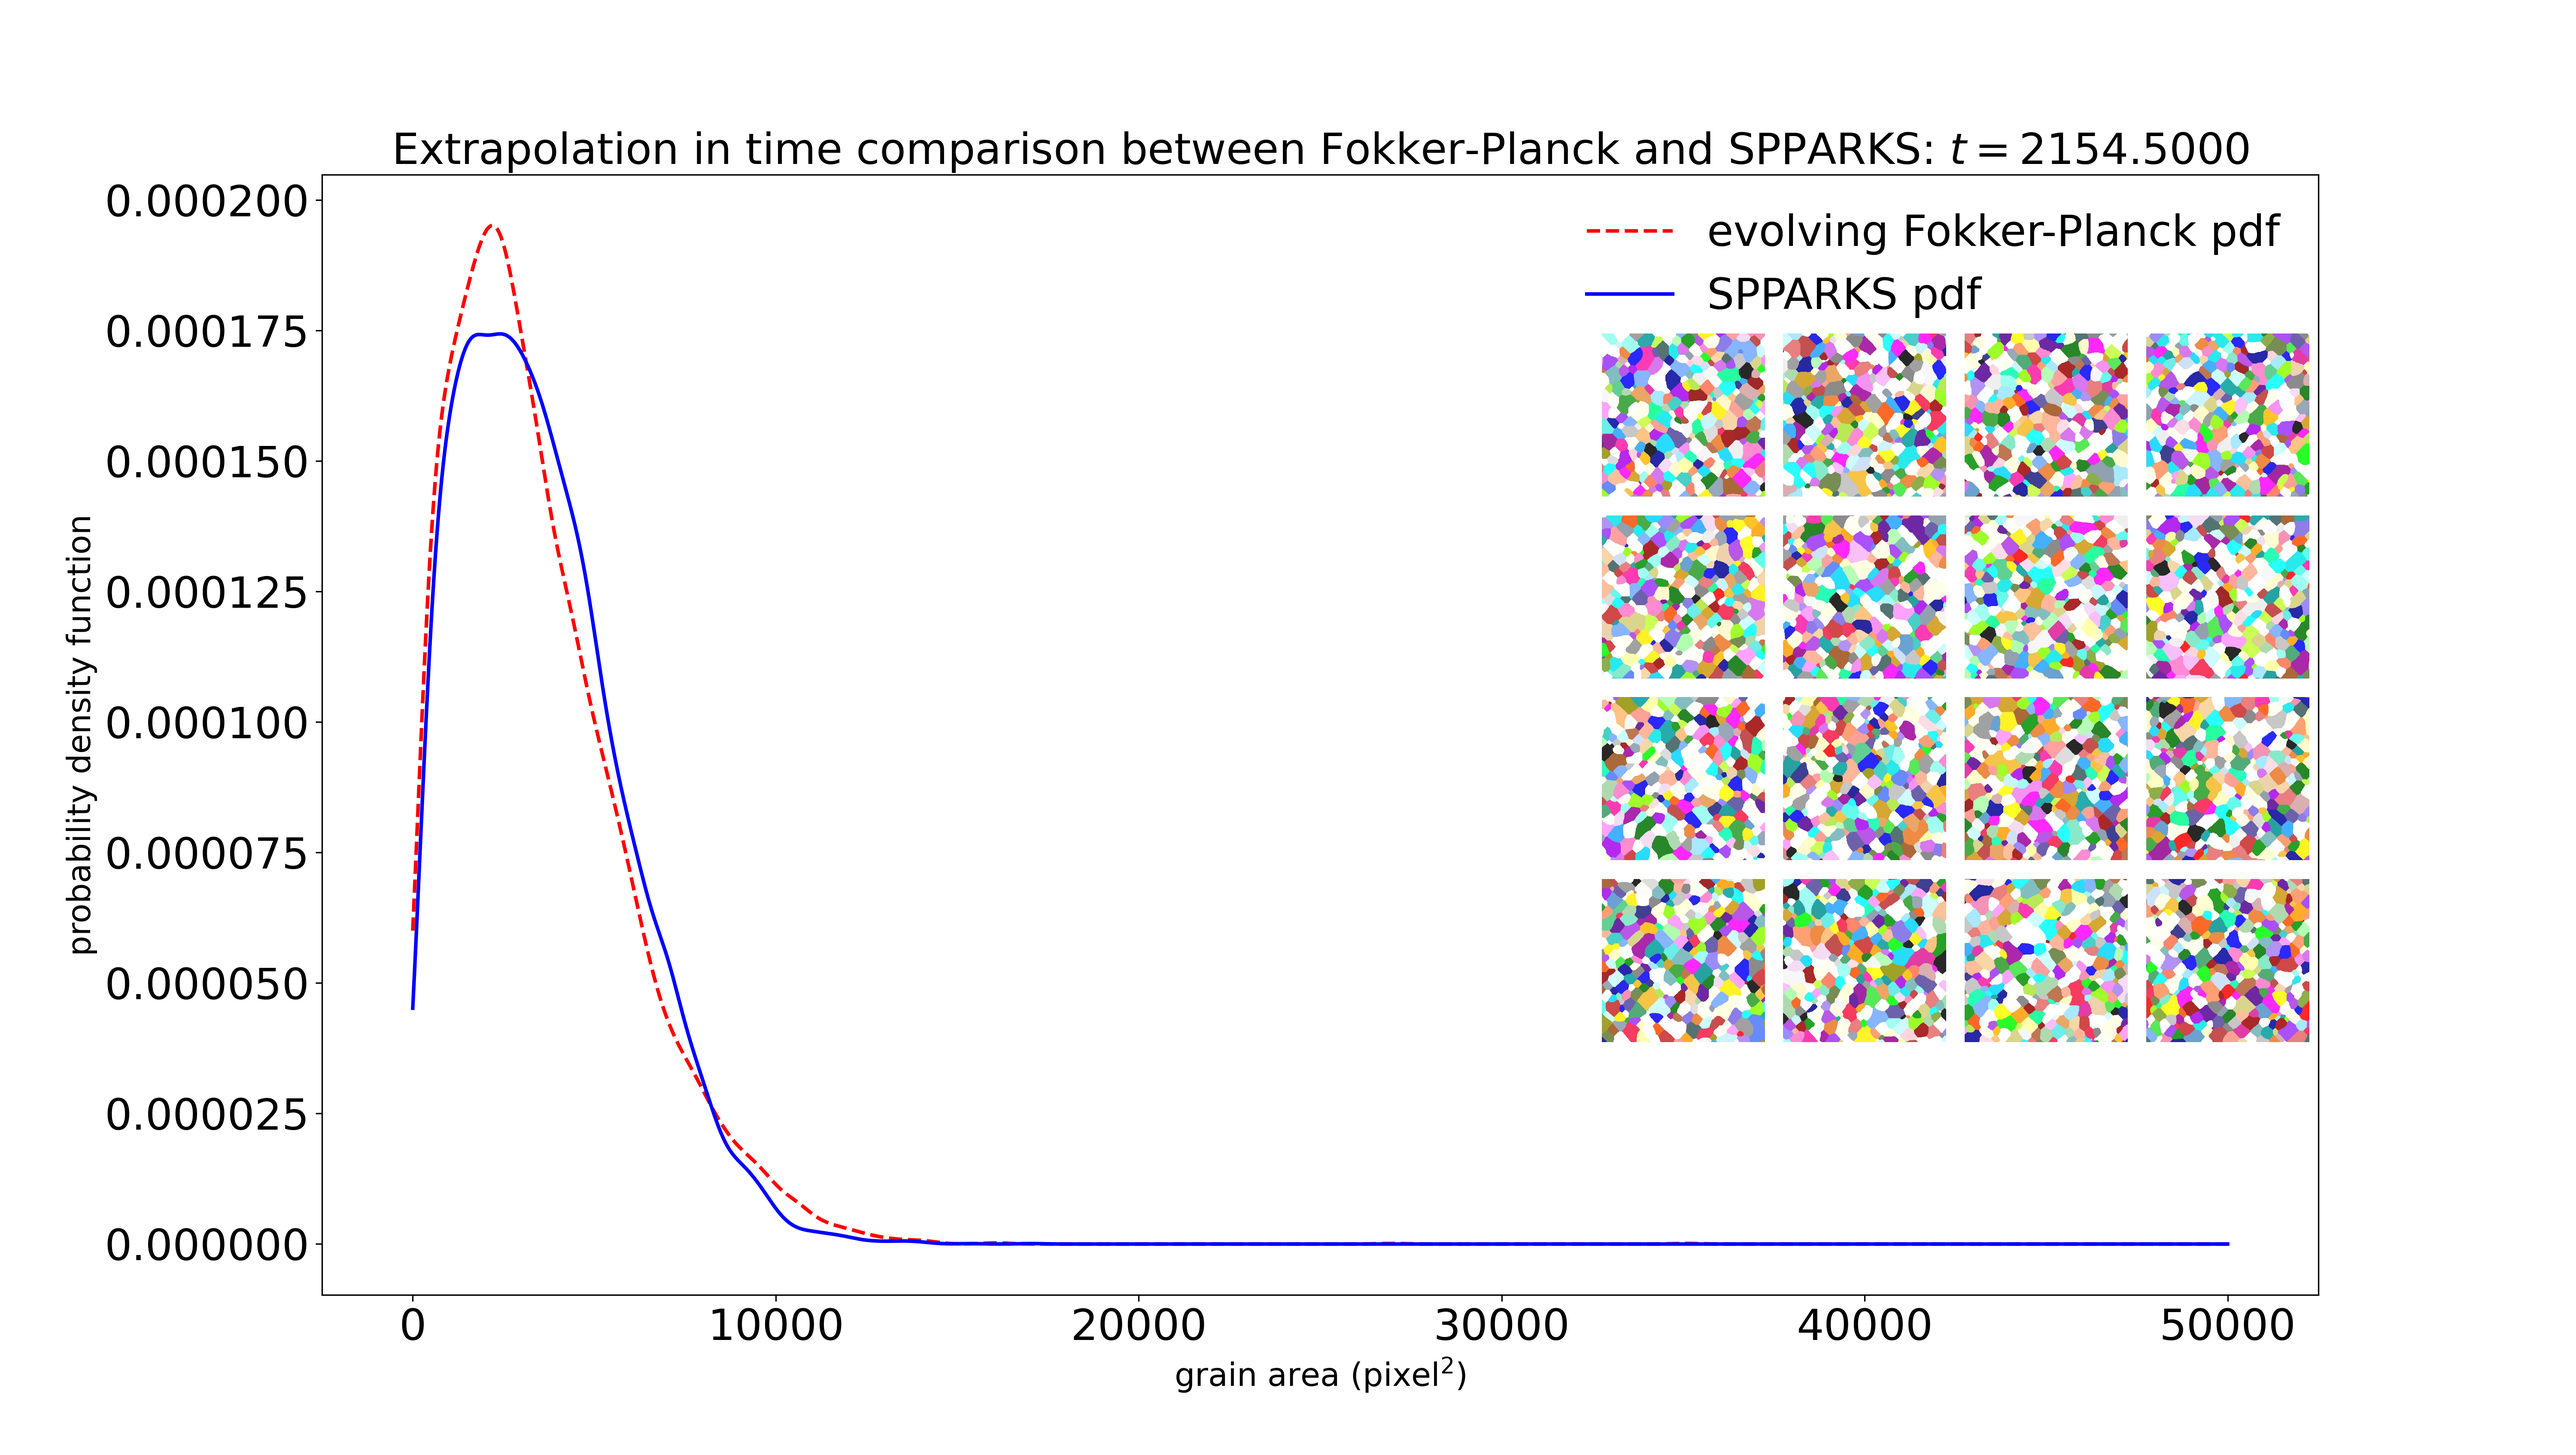
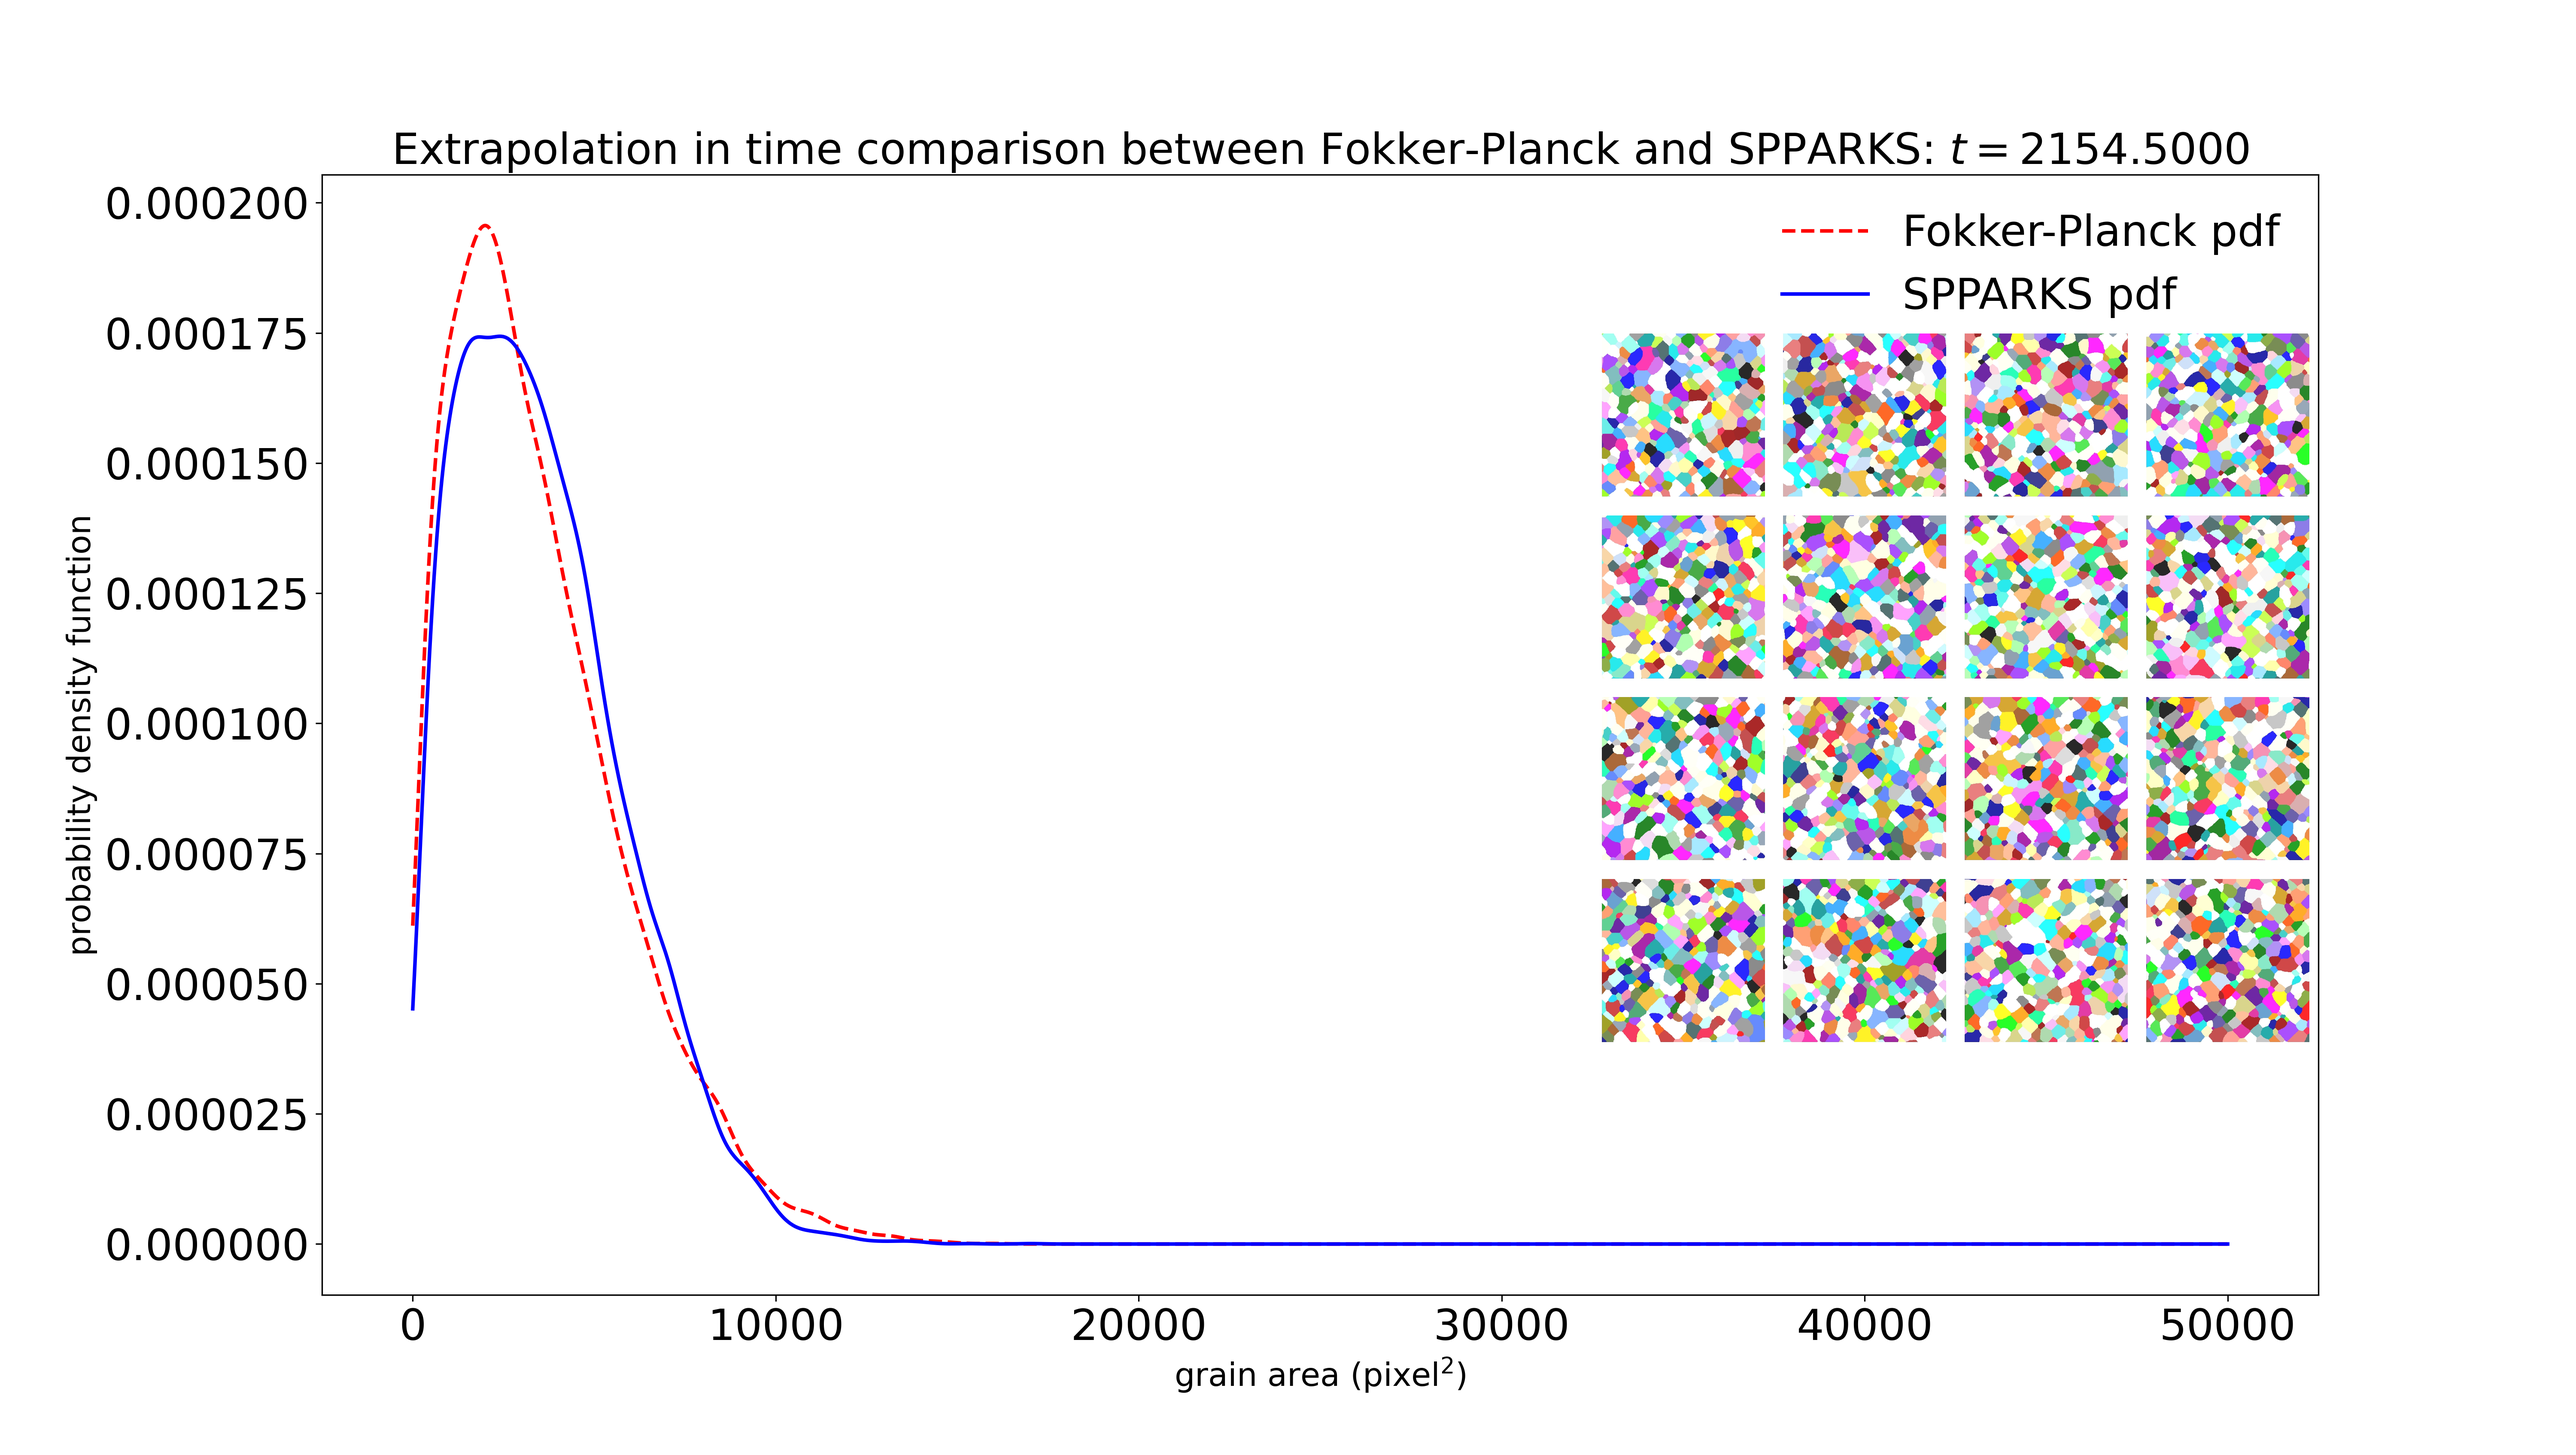
update ggComparison*png

diff --git a/fp1d/model/compareSpkDensity3.py b/fp1d/model/compareSpkDensity3.py
@@ -130,7 +130,7 @@ for i in range(len(iterationList)):
 	# initPlt, 			= plt.plot(x, pInit, 'ro:', linewidth=2, label='first training pdf (kMC: 46.5 mcs)')
 	# calibratedPlt, 	= plt.plot(x, pCalibrated, 'mo-.', linewidth=2, label='last training pdf (kMC: 599.5 mcs)')
 	# finalPlt, 		= plt.plot(x, pFinal, 'go--', linewidth=2, label='last testing pdf (kMC: 16,681.1 mcs)')
-	currentPlt, 	= plt.plot(x, pCurrent, c='red', linestyle='--', linewidth=2, label='evolving Fokker-Planck pdf')
+	currentPlt, 	= plt.plot(x, pCurrent, c='red', linestyle='--', linewidth=2, label='Fokker-Planck pdf')
 	spkCurrentPlt,  = plt.plot(x, pSpkCurrent, c='blue', linestyle='-', linewidth=2, label='SPPARKS pdf')
 
 	plt.legend(handles=[currentPlt, spkCurrentPlt], fontsize=24, markerscale=2, loc='best', frameon=False) # bbox
